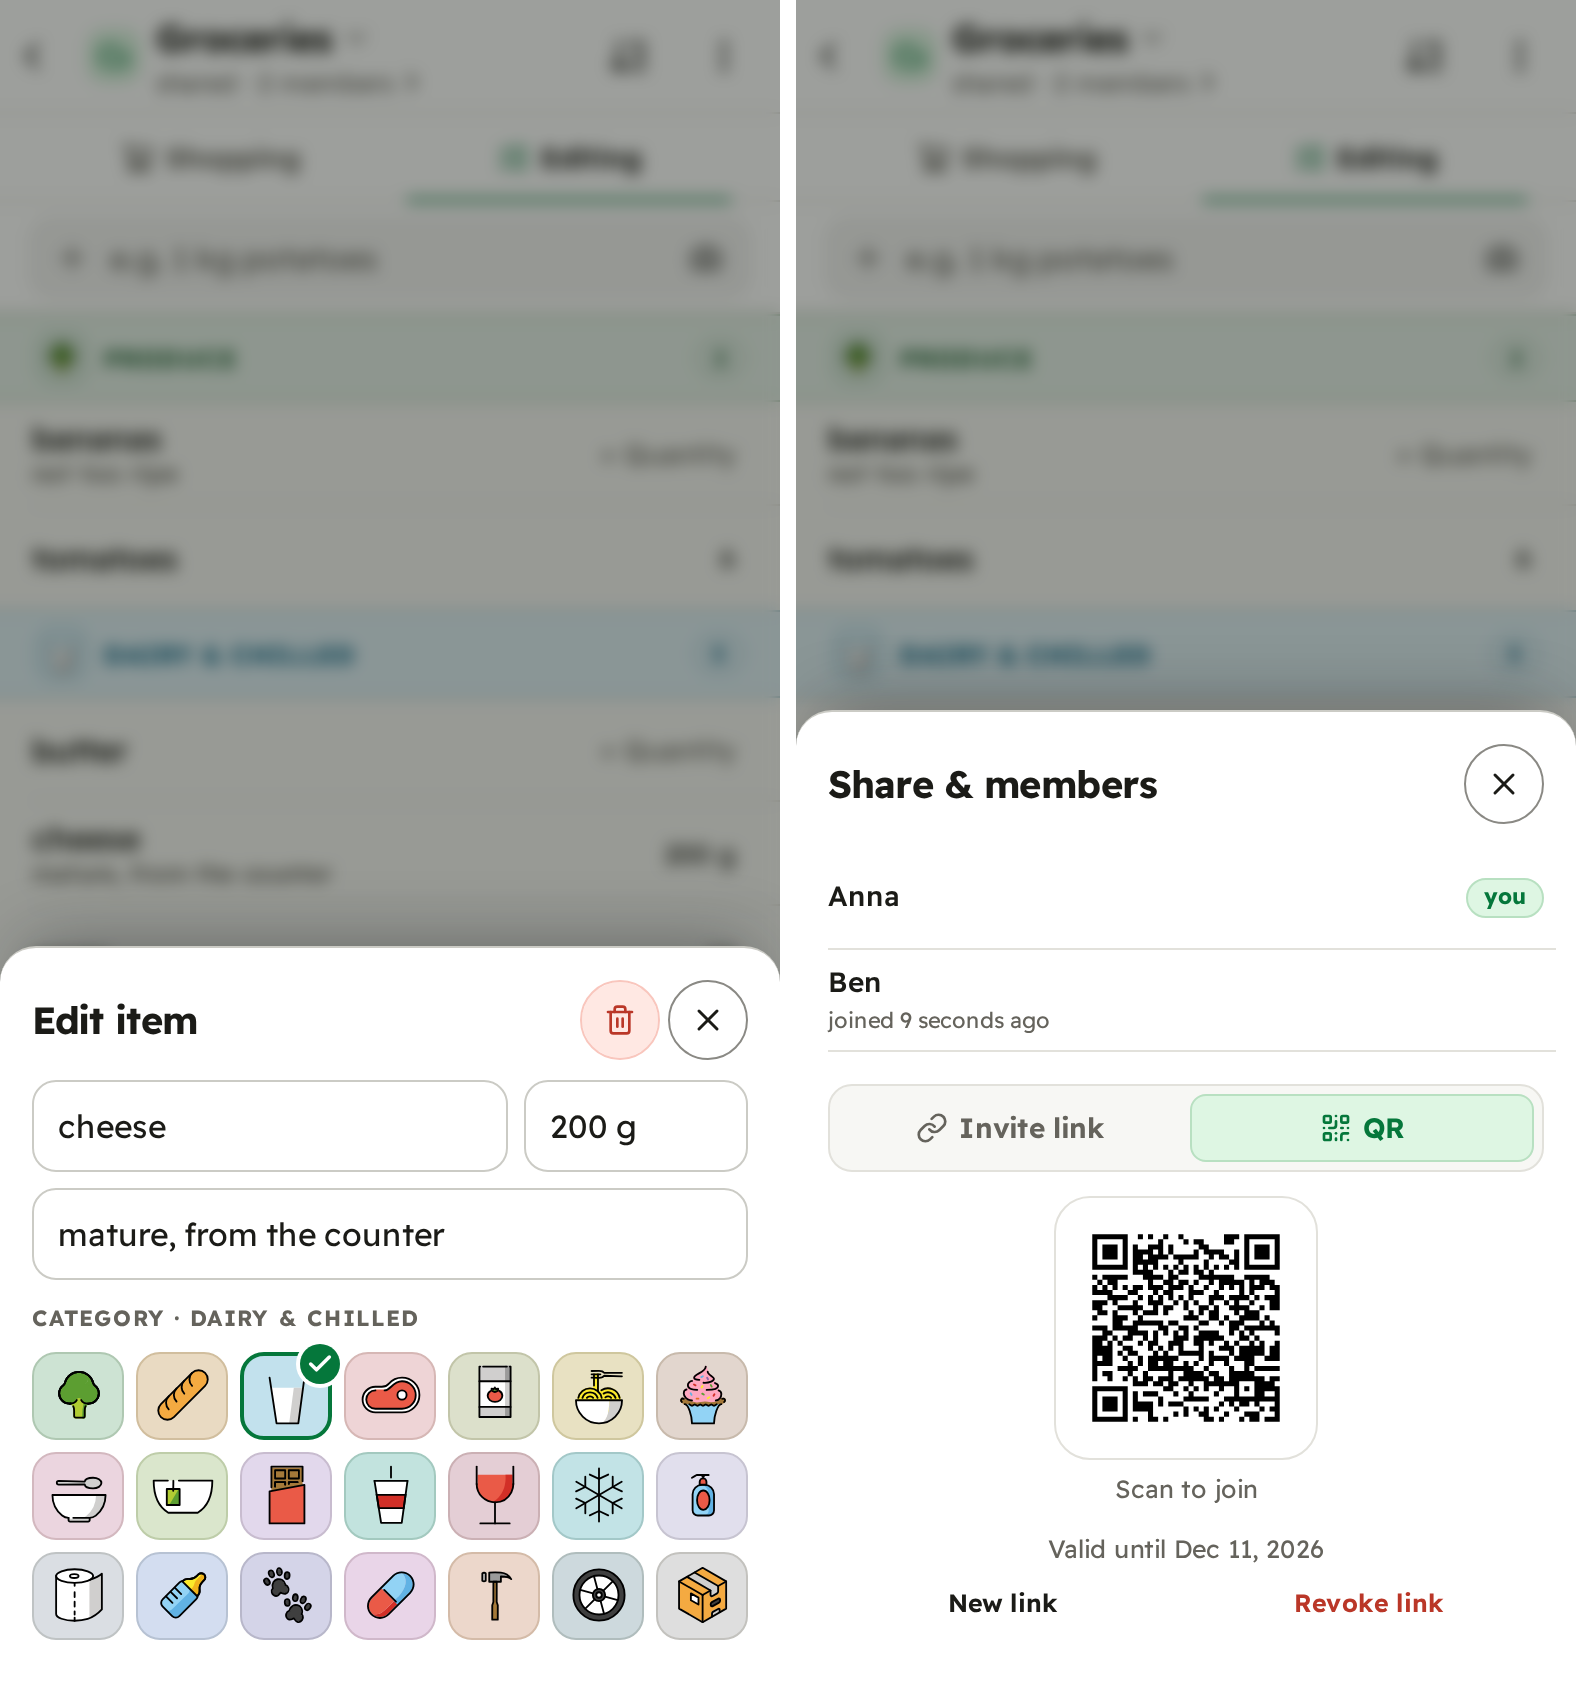
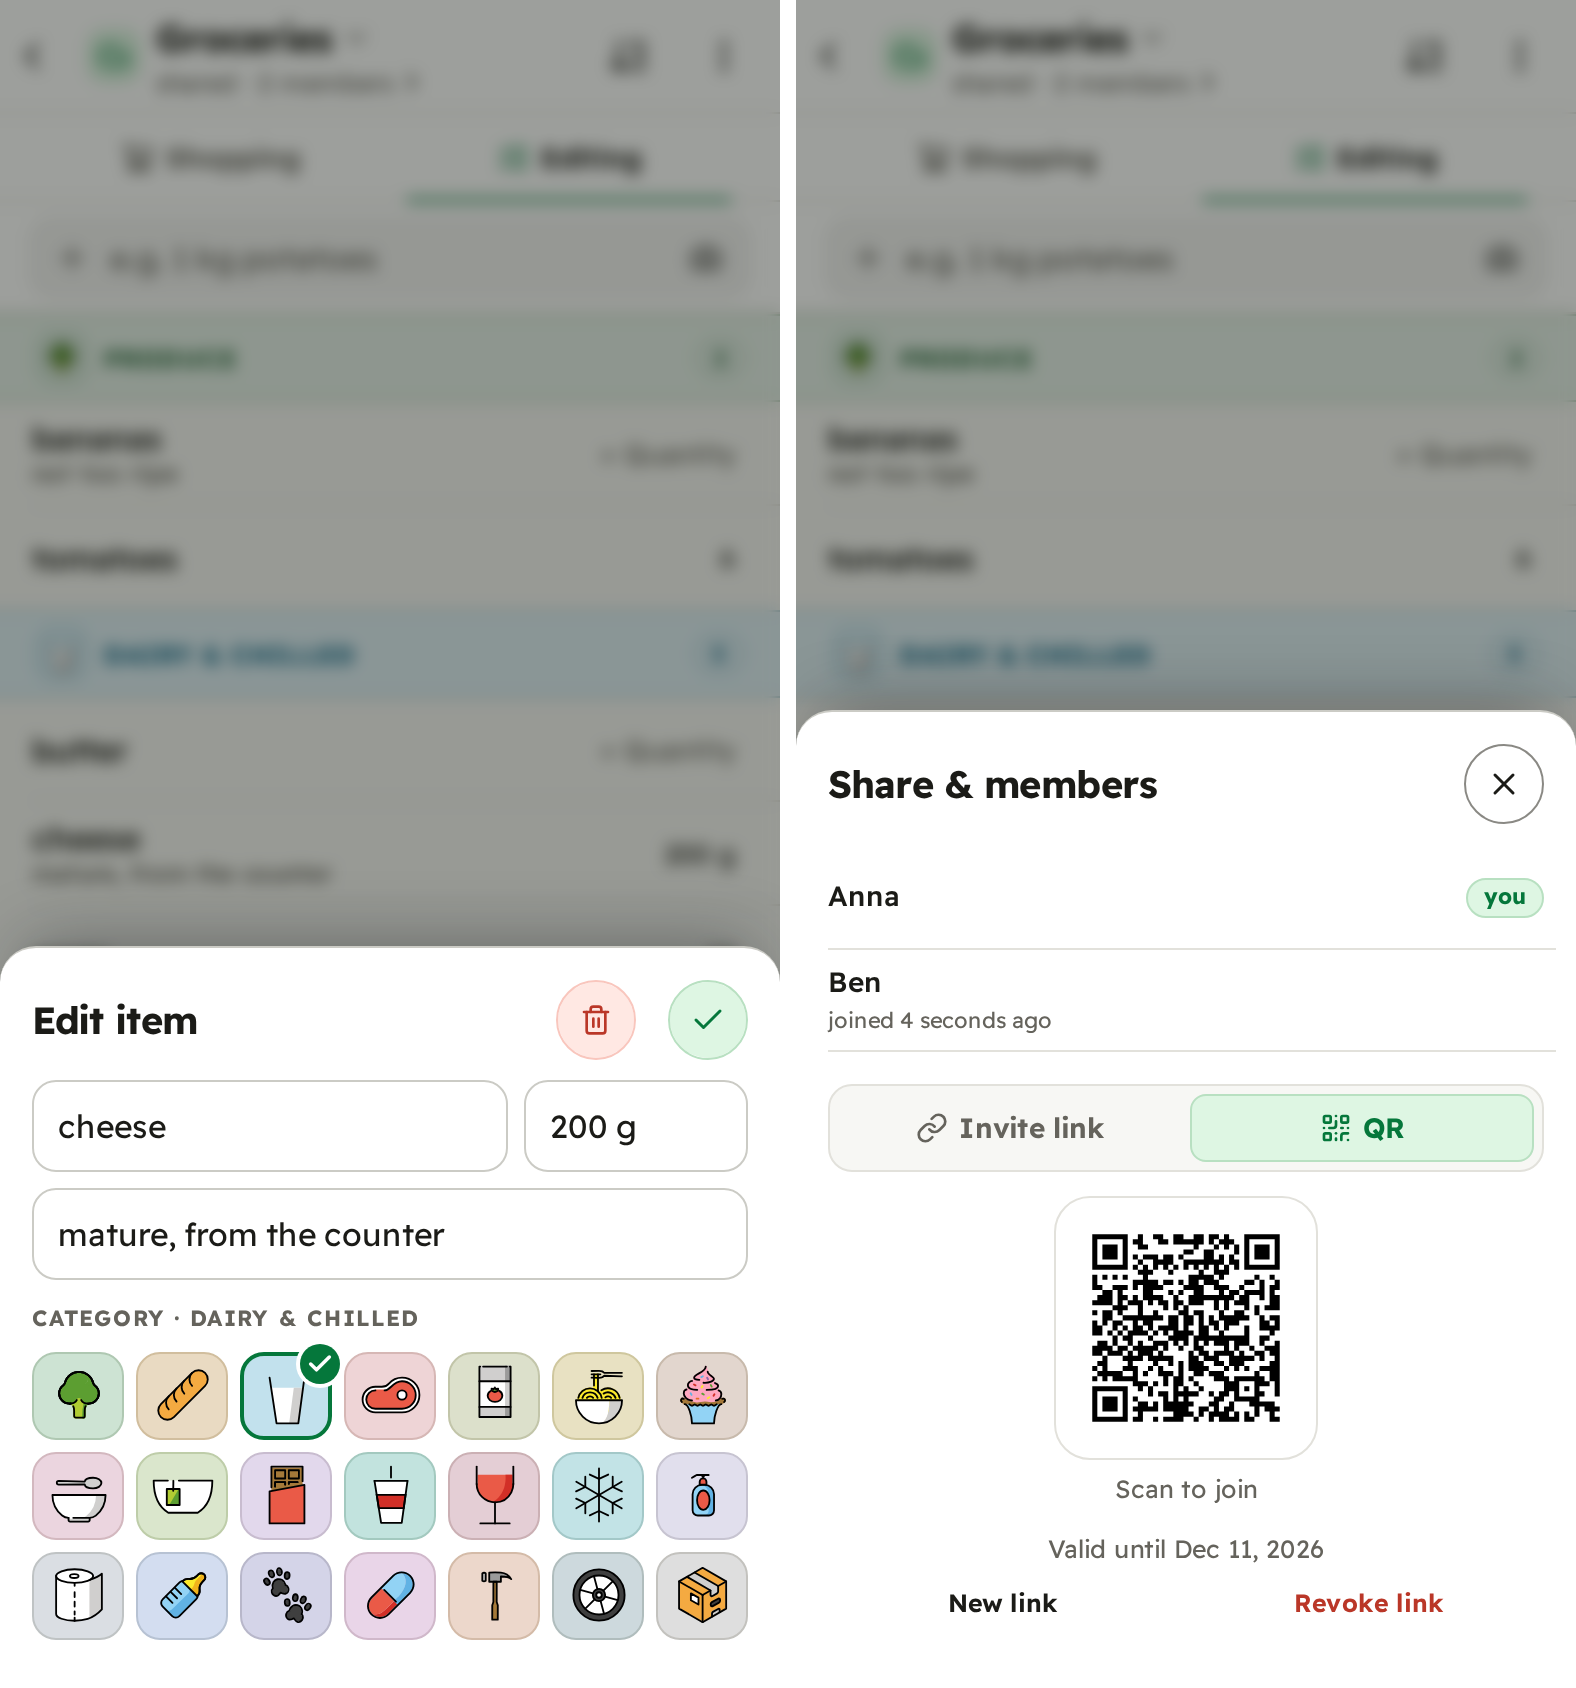
feat(ui): a sheet that keeps what was typed closes with a ✓
The item sheet saves as it closes, so its close is a ✓ named "Fertig"
in soft green, set 16px from the delete beside it, which had stood 8px
from a ✕ of the same size and shape; its press stays grey. Other sheets
keep their ✕. Sheet's `done` sets it; CloseButton draws both ([D-355]).
README item image regenerated.

Changed region(s): [[0.684, 0.7085, 0.8084, 0.8626], [0.342, 0.5545, 0.4975, 0.6469], [0.5907, 0.5853, 0.6529, 0.6161]]

diff --git a/frontend/src/lib/components/list/list-view.svelte.test.ts b/frontend/src/lib/components/list/list-view.svelte.test.ts
@@ -444,7 +444,7 @@ describe('ListView — detail sheet', () => {
 
 		// Confirm is implicit: the category tap commits immediately, and the
 		// still-focused note field commits on blur when the sheet is dismissed.
-		const closeBtn = within(dialog).getByRole('button', { name: t('common_close') });
+		const closeBtn = within(dialog).getByRole('button', { name: t('common_done') });
 		await fireEvent.click(closeBtn);
 
 		await waitFor(async () => {
@@ -494,7 +494,7 @@ describe('ListView — detail sheet', () => {
 				'value',
 				'Nuss-Nougat-Creme'
 			);
-			await fireEvent.click(within(dialog).getByRole('button', { name: t('common_close') }));
+			await fireEvent.click(within(dialog).getByRole('button', { name: t('common_done') }));
 			await waitFor(() => expect(screen.queryByRole('dialog')).toBeNull());
 			expect(await db.pending_ops.where('record_id').equals(item.id).count()).toBe(0);
 
@@ -503,7 +503,7 @@ describe('ListView — detail sheet', () => {
 			await fireEvent.input(within(dialog).getByLabelText(t('common_name')), {
 				target: { value: 'Nutella' }
 			});
-			await fireEvent.click(within(dialog).getByRole('button', { name: t('common_close') }));
+			await fireEvent.click(within(dialog).getByRole('button', { name: t('common_done') }));
 
 			await waitFor(async () => {
 				const stored = await db.items.get(item.id);
@@ -550,7 +550,7 @@ describe('ListView — detail sheet', () => {
 
 		await fireEvent.click(screen.getByRole('button', { name: 'Senf' }));
 		const dialog = await screen.findByRole('dialog');
-		await fireEvent.click(within(dialog).getByRole('button', { name: t('common_close') }));
+		await fireEvent.click(within(dialog).getByRole('button', { name: t('common_done') }));
 
 		await waitFor(() => expect(screen.queryByRole('dialog')).toBeNull());
 
@@ -574,7 +574,7 @@ describe('ListView — detail sheet', () => {
 		// The row behind the sheet has it, so the sheet's item has too.
 		await screen.findByRole('button', { name: /^2 .*Senf/, hidden: true });
 		await fireEvent.blur(within(dialog).getByLabelText(t('common_quantity')));
-		await fireEvent.click(within(dialog).getByRole('button', { name: t('common_close') }));
+		await fireEvent.click(within(dialog).getByRole('button', { name: t('common_done') }));
 
 		await waitFor(() => expect(screen.queryByRole('dialog')).toBeNull());
 		expect(await db.pending_ops.count()).toBe(0);
@@ -696,7 +696,7 @@ describe('ListView — detail sheet', () => {
 		await fireEvent.input(nameInput, { target: { value: '   ' } });
 		const noteInput = within(dialog).getByLabelText(t('common_note'));
 		await fireEvent.input(noteInput, { target: { value: 'die scharfe Sorte' } });
-		await fireEvent.click(within(dialog).getByRole('button', { name: t('common_close') }));
+		await fireEvent.click(within(dialog).getByRole('button', { name: t('common_done') }));
 
 		await waitFor(() => expect(screen.queryByRole('dialog')).toBeNull());
 
@@ -724,7 +724,7 @@ describe('ListView — detail sheet', () => {
 		await fireEvent.input(within(dialog).getByLabelText(t('common_note')), {
 			target: { value: 'Barista' }
 		});
-		await fireEvent.click(within(dialog).getByRole('button', { name: t('common_close') }));
+		await fireEvent.click(within(dialog).getByRole('button', { name: t('common_done') }));
 
 		await waitFor(() => expect(screen.queryByRole('dialog')).toBeNull());
 		await waitFor(async () => expect((await db.items.get(oat.id))?.note).toBe('Barista'));

diff --git a/frontend/src/lib/components/ui/CloseButton.svelte b/frontend/src/lib/components/ui/CloseButton.svelte
@@ -1,23 +1,32 @@
 <!--
   A sheet's or a dialog's ✕: the secondary's white and firm edge as a circle,
   so it reads as a button at a glance ([D-312]). One part, so the scan dialog
-  cannot draw its own.
+  cannot draw its own. `done` is a sheet that keeps what was typed as it
+  closes: a ✓ in soft green named „Fertig“, set 16px from the sheet's other
+  actions; its press stays grey, as every press does ([D-355], [D-321]).
 -->
 <script lang="ts">
 	import X from '@lucide/svelte/icons/x';
+	import Check from '@lucide/svelte/icons/check';
 	import { t } from '#lib/i18n/index.js';
 	import type { ComponentProps } from 'svelte';
 	import { Button } from '#lib/components/ui/button/index.js';
 
-	let { label, ...rest }: ComponentProps<typeof Button> & { label?: string } = $props();
+	let {
+		label,
+		done = false,
+		...rest
+	}: ComponentProps<typeof Button> & { label?: string; done?: boolean } = $props();
 </script>
 
 <Button
 	{...rest}
 	variant="outline"
 	size="icon"
-	class="rounded-full"
-	aria-label={label ?? t('common_close')}
+	class={done
+		? 'ms-3 rounded-full border-primary-line bg-primary-soft text-primary-text'
+		: 'rounded-full'}
+	aria-label={label ?? t(done ? 'common_done' : 'common_close')}
 >
-	<X class="size-4.5" />
+	{#if done}<Check class="size-4.5" />{:else}<X class="size-4.5" />{/if}
 </Button>

diff --git a/frontend/src/lib/components/import/text-import-screen.svelte.test.ts b/frontend/src/lib/components/import/text-import-screen.svelte.test.ts
@@ -311,7 +311,7 @@ describe('TextImportScreen', () => {
 		await fireEvent.click(within(rowOf('Mango')).getByRole('button', { name: 'Mango' }));
 		const sheet = await screen.findByRole('dialog', { name: 'Artikel bearbeiten' });
 		await fireEvent.click(within(sheet).getByRole('radio', { name: 'Brot & Backwaren' }));
-		await fireEvent.click(within(sheet).getByRole('button', { name: 'Schließen' }));
+		await fireEvent.click(within(sheet).getByRole('button', { name: 'Fertig' }));
 
 		await screen.findByRole('option', { name: 'Zuhause' });
 		await fireEvent.change(screen.getByLabelText('Wohin?'), { target: { value: 'list-a' } });
@@ -397,7 +397,7 @@ describe('TextImportScreen', () => {
 		const name = within(sheet).getByPlaceholderText('Name');
 		await fireEvent.input(name, { target: { value: 'Hafermilch' } });
 		await fireEvent.blur(name);
-		await fireEvent.click(within(sheet).getByRole('button', { name: 'Schließen' }));
+		await fireEvent.click(within(sheet).getByRole('button', { name: 'Fertig' }));
 
 		await fireEvent.click(
 			await screen.findByRole('button', { name: 'Liste mit 4 Artikeln erstellen' })

diff --git a/e2e/tests/conflicts.spec.ts b/e2e/tests/conflicts.spec.ts
@@ -93,7 +93,7 @@ test('passive conflict notices: same-field, delete-vs-edit and duplicate-name me
 	const detailB = pageB.getByRole('dialog', { name: 'Artikel bearbeiten' });
 	await detailB.locator('#detail-note').fill('Bio');
 	await detailB.locator('#detail-note').blur();
-	await detailB.getByRole('button', { name: 'Schließen' }).click();
+	await detailB.getByRole('button', { name: 'Fertig' }).click();
 
 	// A removes the item entirely, online, while B's edit is still queued.
 	await itemRow(pageA, 'Butter').locator('.row-name').click();
@@ -200,7 +200,7 @@ test('a list deleted while this device was offline: named notice, list gone', as
 	const detail2 = page2.getByRole('dialog', { name: 'Artikel bearbeiten' });
 	await detail2.locator('#detail-note').fill('für Kaffee');
 	await detail2.locator('#detail-note').blur();
-	await detail2.getByRole('button', { name: 'Schließen' }).click();
+	await detail2.getByRole('button', { name: 'Fertig' }).click();
 
 	// Device 1 leaves — this is the ONLY membership on this list (both devices
 	// are the same account), so §7.3 deletes the list server-side.

diff --git a/frontend/src/lib/components/ui/Sheet.svelte.test.ts b/frontend/src/lib/components/ui/Sheet.svelte.test.ts
@@ -37,6 +37,20 @@ describe('Sheet — wrapper contract', () => {
 		expect(screen.getByRole('button', { name: 'Schließen' })).toBeTruthy();
 	});
 
+	// [D-355] A sheet that keeps what was typed as it closes closes with a
+	// soft-green ✓ named „Fertig“, apart from its other actions; any other
+	// sheet keeps its ✕ „Schließen“.
+	it('closes with a ✓ „Fertig“ when it keeps edits, and with ✕ otherwise', async () => {
+		const onclose = vi.fn();
+		render(Sheet, { open: true, title: 'Artikel', onclose, children, headerActions, done: true });
+		const done = screen.getByRole('button', { name: 'Fertig' });
+		expect(done.classList).toContain('bg-primary-soft');
+		expect(done.classList).toContain('ms-3');
+		expect(screen.queryByRole('button', { name: 'Schließen' })).toBeNull();
+		await fireEvent.click(done);
+		await waitFor(() => expect(onclose).toHaveBeenCalled());
+	});
+
 	it('renders nothing when closed', () => {
 		render(Sheet, { props: { open: false, title: 'Mein Sheet', onclose: vi.fn(), children } });
 		expect(screen.queryByRole('dialog')).toBeNull();

diff --git a/frontend/src/lib/components/ui/Sheet.svelte b/frontend/src/lib/components/ui/Sheet.svelte
@@ -18,12 +18,14 @@
 		onclose: () => void;
 		children: Snippet;
 		headerActions?: Snippet;
+		/** It keeps what was typed as it closes: its close is a ✓ ([D-355]). */
+		done?: boolean;
 		/** The sheet's action, on its bottom edge while the content scrolls
 		 *  under it ([D-327]). */
 		footer?: Snippet;
 	}
 
-	let { open, title: titleText, onclose, children, headerActions, footer }: Props = $props();
+	let { open, title: titleText, onclose, children, headerActions, footer, done }: Props = $props();
 </script>
 
 <Dialog.Root
@@ -51,7 +53,7 @@
 				{#snippet title()}<Dialog.Title>{titleText}</Dialog.Title>{/snippet}
 				{#snippet close()}
 					<DialogPrimitive.Close>
-						{#snippet child({ props })}<CloseButton {...props} />{/snippet}
+						{#snippet child({ props })}<CloseButton {...props} {done} />{/snippet}
 					</DialogPrimitive.Close>
 				{/snippet}
 			</OverlayHead>

diff --git a/e2e/shots/app.spec.ts b/e2e/shots/app.spec.ts
@@ -286,7 +286,7 @@ async function setDetails(page: Page, locale: Locale, details: Household['main']
 			await sheet.locator(id).fill(value);
 			await sheet.locator(id).blur();
 		}
-		await sheet.getByRole('button', { name: msg(locale, 'common_close') }).click();
+		await sheet.getByRole('button', { name: msg(locale, 'common_done') }).click();
 		await expect(sheet).toBeHidden();
 	}
 }
@@ -441,7 +441,7 @@ for (const locale of LOCALES) {
 				const sheet = await openDetail(page, locale, h.main.open);
 				await settle(page);
 				await shoot(page, page, at(7, 'detail'));
-				await sheet.getByRole('button', { name: msg(locale, 'common_close') }).click();
+				await sheet.getByRole('button', { name: msg(locale, 'common_done') }).click();
 				await expect(sheet).toBeHidden();
 			}
 

diff --git a/e2e/tests/item-edit.spec.ts b/e2e/tests/item-edit.spec.ts
@@ -45,7 +45,7 @@ test('detail-sheet edits, the inline quantity chip, remove and restore all reach
 	await detail1.locator('#detail-quantity').blur();
 	await detail1.locator('#detail-note').fill('für Kinder');
 	await detail1.locator('#detail-note').blur();
-	await detail1.getByRole('button', { name: 'Schließen' }).click();
+	await detail1.getByRole('button', { name: 'Fertig' }).click();
 	await expect(detail1).toBeHidden();
 
 	// --- item 2: the row's own inline 3-state quantity control (unset → editing → set) ---

diff --git a/frontend/src/lib/components/list/ItemDetailSheet.svelte b/frontend/src/lib/components/list/ItemDetailSheet.svelte
@@ -147,7 +147,7 @@
 	{/if}
 {/snippet}
 
-<Sheet open={item !== null} title={t('list_detail_title')} onclose={close} {headerActions}>
+<Sheet open={item !== null} title={t('list_detail_title')} onclose={close} {headerActions} done>
 	{#if shown.value}
 		{@const row = shown.value}
 		<div class="flex flex-col">

diff --git a/docs/internals/decisions.md b/docs/internals/decisions.md
@@ -260,6 +260,7 @@ An entry says what holds now: the rule, why, and what was chosen against. A deci
 | [D-352] | A duration is named by its role, and a sheet leaves faster than it came |  |
 | [D-353] | A product photo is kept for offline when its item arrives |  |
 | [D-354] | A planning row's name without a note may take two lines |  |
+| [D-355] | A sheet that keeps what was typed closes with a ✓ |  |
 
 <!-- decisions-index:end -->
 
@@ -785,6 +786,8 @@ The `HEALTHCHECK` is `/shoppinglist healthcheck`, since the image has no shell o
 <a id="D-353"></a>**[D-353] A product photo is kept for offline when its item arrives (2026-11).** The service worker caches a photo when a tile asks for it ([D-21]), but planning rows are text and shop tiles load lazily, so a list planned online met the store offline without pictures. `#lib/sync/photo-keep`, beside the engine's mount, watches the items that carry a photo with Dexie's `liveQuery`, so a pull, a live event and this device's own scan all count, and puts each photo the cache lacks there with the Cache API's `add`; a sync cycle runs it again, for a photo that failed offline. A sign-out stops a run under way, so the cache logout deletes stays deleted ([D-55]). **Guarded:** the scan spec plans a list online and opens the shop view offline. *Rejected:* fetching from the sync engine's apply (a side effect inside the engine); eager loading on every tile (only the tiles on screen, and only once opened). ([D-21], [D-55], [D-266])
 
 <a id="D-354"></a>**[D-354] A planning row's name without a note may take two lines (2026-11).** At 320px, long German names that start alike were cut to the same text („Haselnuss-Vollmilchsch…“ three times). A name with no note or hint under it may wrap, hyphenated, to the line a note would take; measured on the gallery's hardest names, every row stays 52px at the default text size, so the list keeps one row height. A name with a note keeps one line. *Rejected:* two lines always (a row of three lines beside rows of two); one line cut in the middle (a measurement per row for a cut that still loses the middle); keeping one line. ([D-86], [D-326])
+
+<a id="D-355"></a>**[D-355] A sheet that keeps what was typed closes with a ✓ (2026-11).** The item sheet saves as it closes, so its close is a ✓ named „Fertig“, in soft green, the colour of a state kept (the edits are), set 16px from the delete beside it, which had stood 8px from a ✕ of the same size and shape. Its press is grey, as every press is ([D-321]). A sheet that only shows things keeps its ✕ „Schließen“. `Sheet`'s `done` sets it; `CloseButton` draws both. *Rejected:* the ✓ in solid green (a second primary on a sheet whose point is its fields, [D-284]); a grey ✓ (reads as the ✕ at a glance); widening the gap alone (the ✕ still said "discard" on a sheet that keeps). ([D-284], [D-321], [D-325])
 
 <a id="D-350"></a>**[D-350] A hover needs a device that can hover; the press is the touch's own feedback (2026-11).** A tap fires `:hover` as well, and a phone's browser keeps it on the last-tapped element until the next tap, so the shop's tiles and rows carried a subtly highlighted trail behind every finger. Tailwind's `hover:` variant already sits in `@media (hover: hover)` ([D-268]'s "pointer devices only"); hand-written CSS must too, and the tile template's hover rules (the row's aisle-coloured wash, the tile's border, the door's ink) and the toast action's now do. Every button answers the press: the solid red darkens to `danger-press` as the primary does, and the soft red firms its edge to the solid red, since a darker soft fill takes its red words below AA. **Guarded:** the design-tokens test fails any `:hover` rule outside that media block in the app's stylesheets and components' `<style>`, and lint refuses an arbitrary `[&:hover]:` variant, which Tailwind does not wrap. Keyboard focus is untouched: `focus-visible` never fires under a finger. *Rejected:* dropping hover styling (a mouse still needs its offer); gating on `pointer: fine` as well (Tailwind does not, and a touchscreen laptop's trackpad can hover). ([D-268], [D-321])
 
@@ -1371,3 +1374,4 @@ The `HEALTHCHECK` is `/shoppinglist healthcheck`, since the image has no shell o
 [D-352]: #D-352
 [D-353]: #D-353
 [D-354]: #D-354
+[D-355]: #D-355

diff --git a/CHANGELOG.md b/CHANGELOG.md
@@ -26,6 +26,7 @@ Changes land under **Unreleased** in the commit that makes them; the release com
 - **A settings group's grey note, such as the one about a second passkey, is the size of the hints above it** ([D-351]).
 - **Sheets close in a quarter of a second** instead of half a second ([D-352]).
 - **In the planning list, a long name with no note under it takes a second line** instead of being cut off, so names that start alike stay apart; rows keep their height ([D-354]).
+- **An item's sheet closes with a green ✓, "Done", set further from the delete button**, since it keeps what you typed as it closes; other sheets keep their ✕ ([D-355]).
 - **Product photos are there offline even if you only planned the list.** A photo used to be kept only once its shop tile had shown it, so a list planned online could reach the store offline without pictures ([D-353]).
 
 ## v0.17.5: a sheet stays in view while you type on an iPhone, and dialogs fade in and out (2026-11)
@@ -1055,3 +1056,4 @@ First tagged build: a distroless multi-arch container (amd64 + arm64) with the S
 [D-352]: docs/internals/decisions.md#D-352
 [D-353]: docs/internals/decisions.md#D-353
 [D-354]: docs/internals/decisions.md#D-354
+[D-355]: docs/internals/decisions.md#D-355
